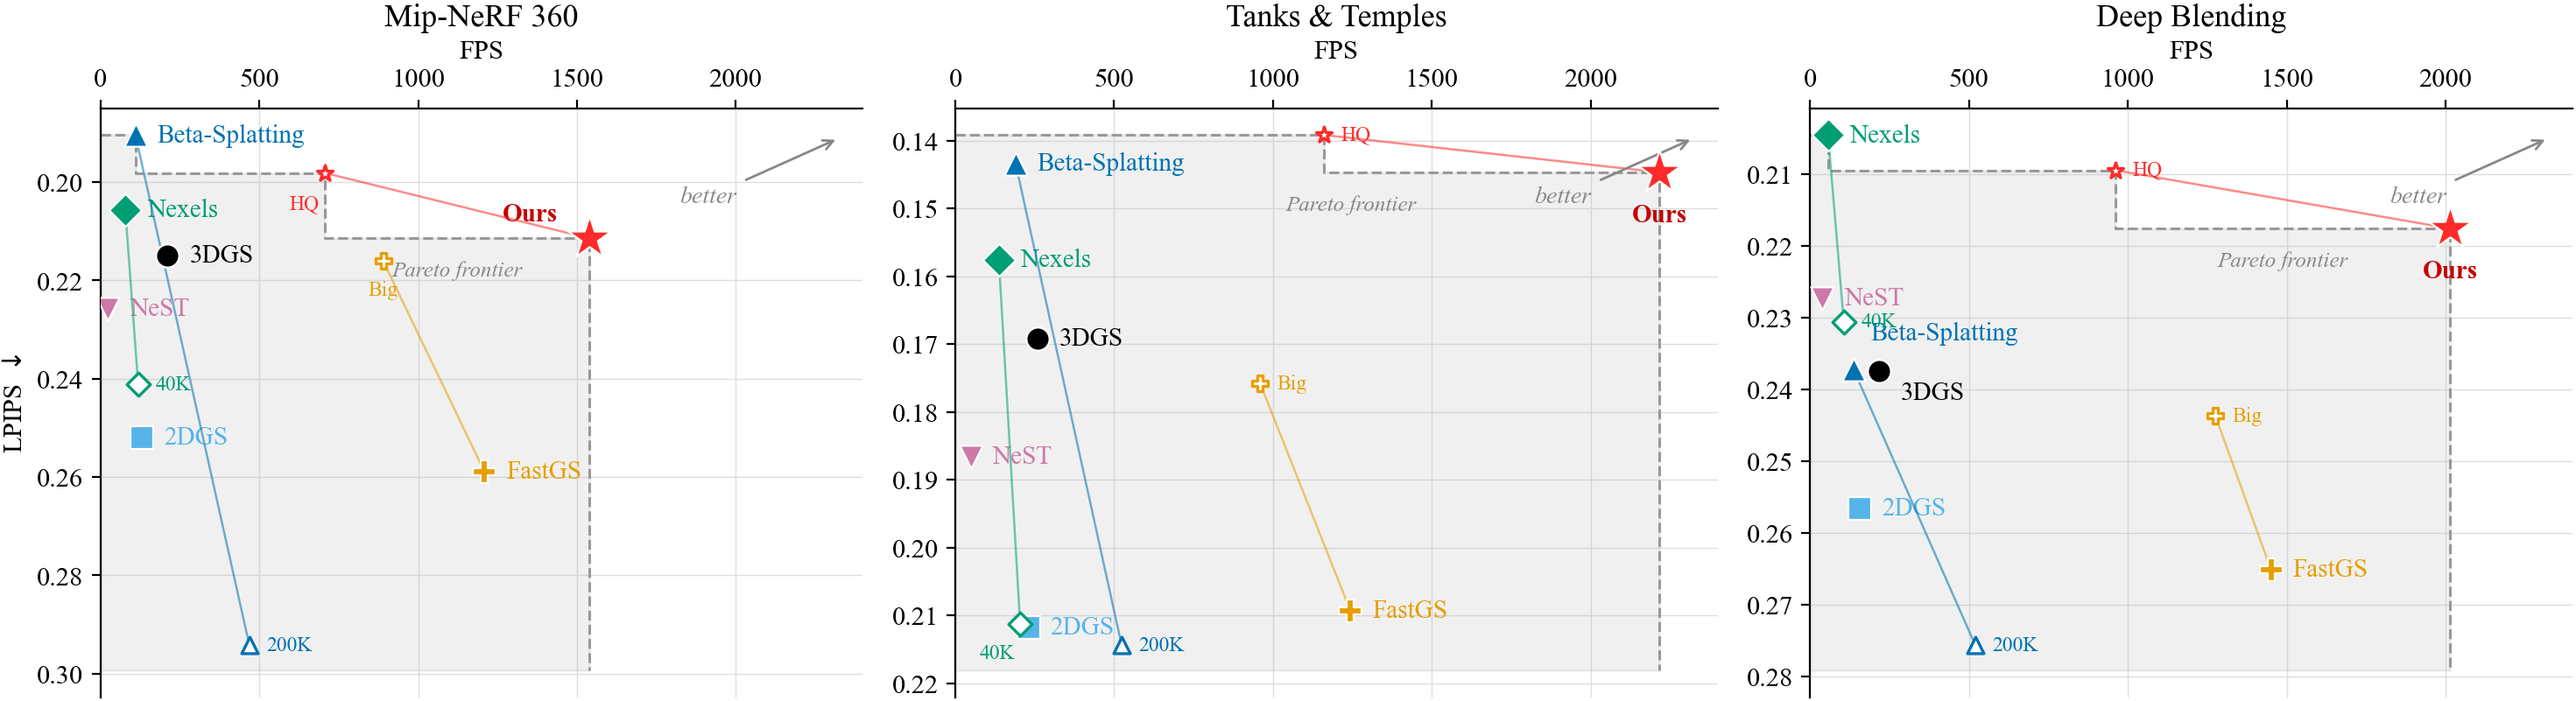
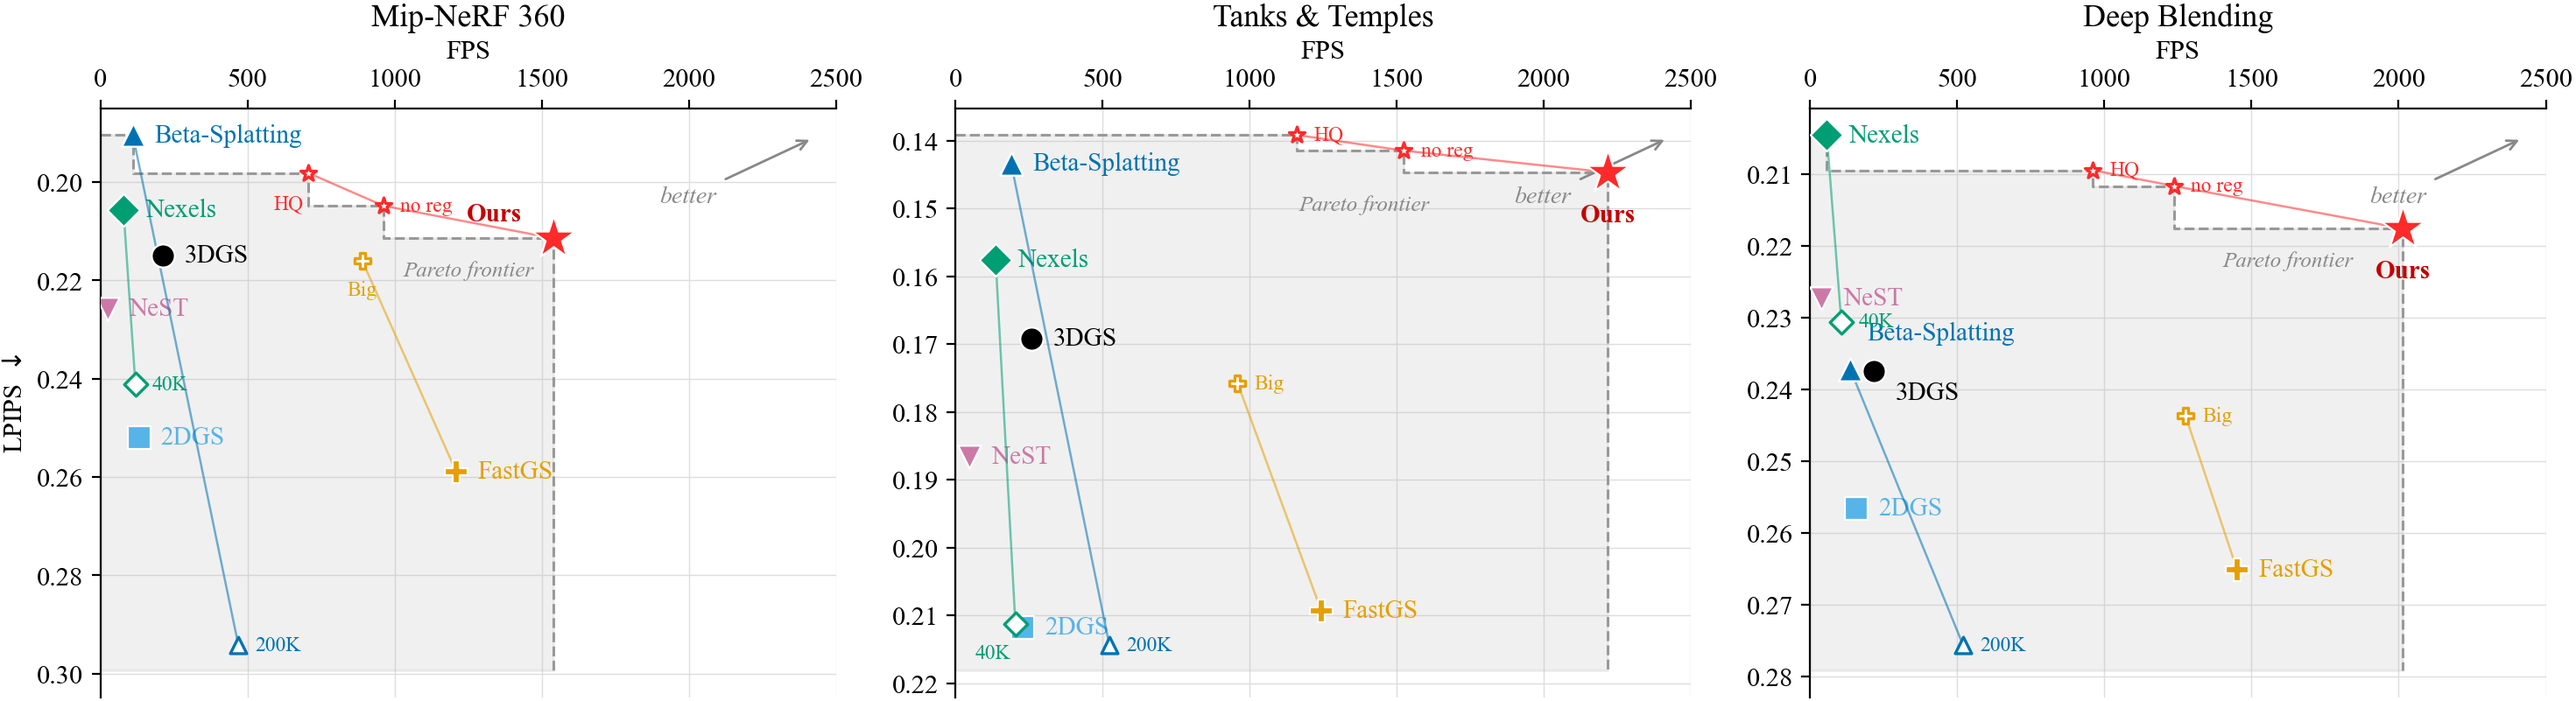
Add Ours (no reg) ablation point: tables, chained variant curve in plots
The regulariser and beta-kernel ablations now form one connected curve per
benchmark (Ours -> no reg -> HQ) rather than a fan of segments. Rank tints
recomputed: no-reg takes LPIPS 3rd on mip360 and LPIPS/FPS 2nd on T&T.

diff --git a/index.html b/index.html
@@ -398,7 +398,7 @@
       <tr><td>BBSplat</td><td class="n">26.80</td><td class="n">0.7874</td><td class="n">0.2355</td><td class="n">237,778</td><td class="n">176</td><td class="n">48</td></tr>
       <tr><td>Nexels (40K)</td><td class="n">25.99</td><td class="n">0.7619</td><td class="n">0.2411</td><td class="n">39,977</td><td class="n">138</td><td class="n">119</td></tr>
       <tr><td>Nexels (100K)</td><td class="n">26.55</td><td class="n">0.7764</td><td class="n">0.2245</td><td class="n">99,934</td><td class="n">282</td><td class="n">100</td></tr>
-      <tr><td>Nexels (400K)</td><td class="n">27.21</td><td class="n">0.8018</td><td class="n r3">0.2057</td><td class="n">399,771</td><td class="n">230</td><td class="n">78</td></tr>
+      <tr><td>Nexels (400K)</td><td class="n">27.21</td><td class="n">0.8018</td><td class="n">0.2057</td><td class="n">399,771</td><td class="n">230</td><td class="n">78</td></tr>
       <tr><td>Speedy-Splat</td><td class="n">26.91</td><td class="n">0.7883</td><td class="n">0.2875</td><td class="n">315,961</td><td class="n">75</td><td class="n r2">1259</td></tr>
       <tr><td>FastGS</td><td class="n">27.44</td><td class="n">0.7967</td><td class="n">0.2589</td><td class="n">394,189</td><td class="n">98</td><td class="n r3">1209</td></tr>
       <tr><td>FastGS (Big)</td><td class="n r3">27.80</td><td class="n r2">0.8191</td><td class="n">0.2160</td><td class="n">1,161,438</td><td class="n">&mdash;</td><td class="n">890</td></tr>
@@ -406,6 +406,7 @@
       <tr><td>Textured Gaussians</td><td class="n">25.86</td><td class="n">0.7336</td><td class="n">0.2857</td><td class="n">100,000</td><td class="n">3,837</td><td class="n">28</td></tr>
       <tr><td>NeST</td><td class="n">26.39</td><td class="n">0.7734</td><td class="n">0.2257</td><td class="n">961,163</td><td class="n">224</td><td class="n">24</td></tr>
       <tr class="ours"><td>Ours (HQ)</td><td class="n r2">27.88</td><td class="n">0.8070</td><td class="n r2">0.1981</td><td class="n">248,341</td><td class="n">839</td><td class="n">706</td></tr>
+      <tr class="ours"><td>Ours (no reg)</td><td class="n">27.65</td><td class="n">0.8015</td><td class="n r3">0.2048</td><td class="n">168,017</td><td class="n">596</td><td class="n">962</td></tr>
       <tr class="ours"><td><strong>Ours</strong></td><td class="n">27.23</td><td class="n">0.7892</td><td class="n">0.2114</td><td class="n">123,051</td><td class="n">445</td><td class="n r1"><strong>1538</strong></td></tr>
     </tbody>
   </table>
@@ -418,22 +419,23 @@
       <tr><th>Method</th><th class="n">PSNR <span class="arw">&uarr;</span></th><th class="n">SSIM <span class="arw">&uarr;</span></th><th class="n">LPIPS <span class="arw">&darr;</span></th><th class="n">Prims</th><th class="n">Size (MB)</th><th class="n">FPS <span class="arw">&uarr;</span></th></tr>
     </thead>
     <tbody>
-      <tr><td>3DGS</td><td class="n">23.74</td><td class="n r3">0.8574</td><td class="n">0.1692</td><td class="n">1,574,592</td><td class="n">372</td><td class="n">259</td></tr>
+      <tr><td>3DGS</td><td class="n">23.74</td><td class="n">0.8574</td><td class="n">0.1692</td><td class="n">1,574,592</td><td class="n">372</td><td class="n">259</td></tr>
       <tr><td>2DGS</td><td class="n">23.15</td><td class="n">0.8367</td><td class="n">0.2118</td><td class="n">851,362</td><td class="n">198</td><td class="n">230</td></tr>
-      <tr><td>Beta-Splatting</td><td class="n r1"><strong>24.71</strong></td><td class="n r1"><strong>0.8735</strong></td><td class="n r2">0.1434</td><td class="n">1,750,000</td><td class="n">200</td><td class="n">190</td></tr>
+      <tr><td>Beta-Splatting</td><td class="n r1"><strong>24.71</strong></td><td class="n r1"><strong>0.8735</strong></td><td class="n r3">0.1434</td><td class="n">1,750,000</td><td class="n">200</td><td class="n">190</td></tr>
       <tr><td>Beta-Splatting (200K)</td><td class="n">23.38</td><td class="n">0.8348</td><td class="n">0.2144</td><td class="n">200,000</td><td class="n">23</td><td class="n">524</td></tr>
       <tr><td>BBSplat</td><td class="n">23.70</td><td class="n">0.8570</td><td class="n">0.1501</td><td class="n">300,000</td><td class="n">226</td><td class="n">80</td></tr>
       <tr><td>Nexels (40K)</td><td class="n">22.25</td><td class="n">0.7942</td><td class="n">0.2113</td><td class="n">39,979</td><td class="n">138</td><td class="n">204</td></tr>
       <tr><td>Nexels (100K)</td><td class="n">22.92</td><td class="n">0.8244</td><td class="n">0.1752</td><td class="n">99,932</td><td class="n">282</td><td class="n">181</td></tr>
       <tr><td>Nexels (400K)</td><td class="n">23.62</td><td class="n">0.8449</td><td class="n">0.1576</td><td class="n">399,767</td><td class="n">230</td><td class="n">137</td></tr>
-      <tr><td>Speedy-Splat</td><td class="n">23.44</td><td class="n">0.8252</td><td class="n">0.2399</td><td class="n">181,817</td><td class="n">43</td><td class="n r2">1459</td></tr>
-      <tr><td>FastGS</td><td class="n">24.00</td><td class="n">0.8404</td><td class="n">0.2093</td><td class="n">242,133</td><td class="n">60</td><td class="n r3">1243</td></tr>
+      <tr><td>Speedy-Splat</td><td class="n">23.44</td><td class="n">0.8252</td><td class="n">0.2399</td><td class="n">181,817</td><td class="n">43</td><td class="n r3">1459</td></tr>
+      <tr><td>FastGS</td><td class="n">24.00</td><td class="n">0.8404</td><td class="n">0.2093</td><td class="n">242,133</td><td class="n">60</td><td class="n">1243</td></tr>
       <tr><td>FastGS (Big)</td><td class="n r3">24.36</td><td class="n">0.8572</td><td class="n">0.1758</td><td class="n">543,997</td><td class="n">&mdash;</td><td class="n">959</td></tr>
       <tr><td>Content-Aware Texturing</td><td class="n">23.37</td><td class="n">0.8387</td><td class="n">0.1973</td><td class="n">133,880</td><td class="n">127</td><td class="n">270</td></tr>
       <tr><td>Textured Gaussians</td><td class="n">22.70</td><td class="n">0.8058</td><td class="n">0.2161</td><td class="n">100,000</td><td class="n">3,837</td><td class="n">30</td></tr>
       <tr><td>NeST</td><td class="n">22.54</td><td class="n">0.8178</td><td class="n">0.1866</td><td class="n">378,448</td><td class="n">90</td><td class="n">48</td></tr>
       <tr class="ours"><td>Ours (HQ)</td><td class="n r2">24.50</td><td class="n r2">0.8598</td><td class="n r1"><strong>0.1392</strong></td><td class="n">149,681</td><td class="n">539</td><td class="n">1161</td></tr>
-      <tr class="ours"><td><strong>Ours</strong></td><td class="n">24.10</td><td class="n">0.8507</td><td class="n r3">0.1447</td><td class="n">86,746</td><td class="n">325</td><td class="n r1"><strong>2217</strong></td></tr>
+      <tr class="ours"><td>Ours (no reg)</td><td class="n r3">24.36</td><td class="n r3">0.8578</td><td class="n r2">0.1415</td><td class="n">107,428</td><td class="n">397</td><td class="n r2">1524</td></tr>
+      <tr class="ours"><td><strong>Ours</strong></td><td class="n">24.10</td><td class="n">0.8507</td><td class="n">0.1447</td><td class="n">86,746</td><td class="n">325</td><td class="n r1"><strong>2217</strong></td></tr>
     </tbody>
   </table>
   </div>
@@ -460,6 +462,7 @@
       <tr><td>Textured Gaussians</td><td class="n">29.04</td><td class="n">0.8913</td><td class="n">0.2652</td><td class="n">100,000</td><td class="n">3,837</td><td class="n">30</td></tr>
       <tr><td>NeST</td><td class="n">28.86</td><td class="n">0.9021</td><td class="n">0.2273</td><td class="n">478,000</td><td class="n">113</td><td class="n">38</td></tr>
       <tr class="ours"><td>Ours (HQ)</td><td class="n r3">30.28</td><td class="n">0.9000</td><td class="n r2">0.2095</td><td class="n">133,095</td><td class="n">498</td><td class="n">961</td></tr>
+      <tr class="ours"><td>Ours (no reg)</td><td class="n">30.25</td><td class="n">0.9008</td><td class="n">0.2117</td><td class="n">93,813</td><td class="n">366</td><td class="n">1237</td></tr>
       <tr class="ours"><td><strong>Ours</strong></td><td class="n">29.87</td><td class="n">0.8902</td><td class="n">0.2176</td><td class="n">66,622</td><td class="n">259</td><td class="n r1"><strong>2014</strong></td></tr>
     </tbody>
   </table>
@@ -474,10 +477,13 @@
     <em>FastGS (Big)</em> is FastGS's own <code>train_big.sh</code> recipe, its
     higher-quality/slower configuration; size is unrecorded because those checkpoints were not
     packaged for deployment.
-    <em>Ours (HQ)</em> swaps the Beta kernel for a Gaussian kernel in our highest-quality
-    configuration: +0.3&ndash;0.6&nbsp;dB and &minus;0.006 to &minus;0.014 LPIPS over our shipped
-    model at roughly half the frame rate. A Gaussian has no compact support, so each surfel spawns
-    far more fragments; the Beta kernel remains our default for exactly that reason.
+    <em>Ours (no reg)</em> and <em>Ours (HQ)</em> are ablations of our two speed-critical design
+    choices, each retrained, baked and finetuned identically. Dropping the error-guided falloff
+    regulariser costs 1.5&ndash;1.6&times; the frame rate for +0.3&ndash;0.4&nbsp;dB; additionally
+    swapping the compact Beta kernel for a Gaussian costs 1.9&ndash;2.2&times; for
+    +0.4&ndash;0.7&nbsp;dB. Both alternatives inflate the model (123K primitives with the
+    regulariser, 168K without, 248K with the Gaussian on Mip-NeRF&nbsp;360), and neither keeps the
+    throughput lead: at 962 and 706&nbsp;FPS they fall below FastGS and FastGS&nbsp;(Big).
   </p>
   </div>
 
